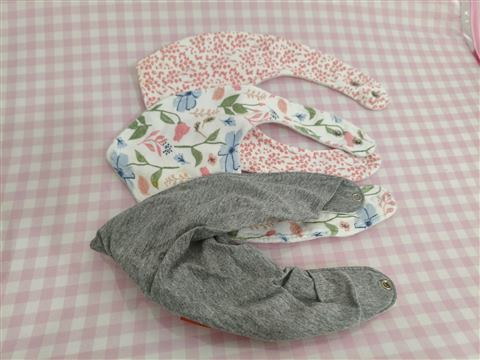
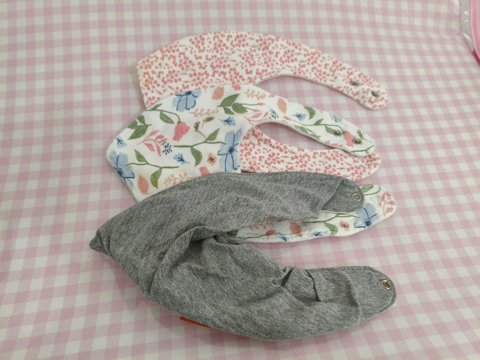
Página pública do catálogo (GitHub Pages): só leitura, sem perfil nem etiquetas
Claude-Session: https://claude.ai/code/session_017FMxTkv8VyW1G8JCJoGcg6

diff --git a/catalogo/index.html b/catalogo/index.html
@@ -1,0 +1,82 @@
+<!doctype html>
+<html lang="pt-BR">
+<head>
+<meta charset="utf-8">
+<meta name="viewport" content="width=device-width,initial-scale=1">
+<title>Guarda-roupa da Liv</title>
+<style>
+:root{--bg:#fbf7f5;--card:#fff;--ink:#3b2f33;--muted:#8a7a80;--line:#eadfe3;--accent:#b5545c}
+@media (prefers-color-scheme:dark){:root:not([data-theme="light"]){--bg:#201a1c;--card:#2b2326;--ink:#f3e9ec;--muted:#b8a6ad;--line:#43363b;--accent:#e08a92}}
+:root[data-theme="dark"]{--bg:#201a1c;--card:#2b2326;--ink:#f3e9ec;--muted:#b8a6ad;--line:#43363b;--accent:#e08a92}
+*{box-sizing:border-box}
+body{margin:0;background:var(--bg);color:var(--ink);font:15px/1.4 system-ui,sans-serif}
+header{padding:20px 16px 8px;max-width:1200px;margin:auto}
+h1{font-size:22px;margin:0 0 4px}
+.sub{color:var(--muted);margin:0 0 14px}
+.filters{display:grid;grid-template-columns:repeat(auto-fit,minmax(150px,1fr));gap:8px;margin-bottom:10px}
+select,input{width:100%;padding:9px 10px;border:1px solid var(--line);border-radius:10px;background:var(--card);color:var(--ink);font:inherit}
+.count{color:var(--muted);font-size:13px;margin:6px 0 12px}
+main{max-width:1200px;margin:auto;padding:0 16px 40px}
+.grid{display:grid;grid-template-columns:repeat(2,1fr);gap:10px}
+@media (min-width:700px){.grid{grid-template-columns:repeat(4,1fr)}}
+@media (min-width:1000px){.grid{grid-template-columns:repeat(5,1fr)}}
+.card{background:var(--card);border:1px solid var(--line);border-radius:12px;overflow:hidden;min-width:0}
+.frame{position:relative;aspect-ratio:1;background:#f3eef0}
+.frame img{position:absolute;inset:0;width:100%;height:100%;object-fit:contain}
+.nome{font-weight:600;padding:8px 10px 2px;font-size:14px}
+.info{padding:0 10px 10px;color:var(--muted);font-size:12.5px}
+.tag{display:inline-block;background:var(--line);border-radius:6px;padding:1px 6px;margin:2px 2px 0 0;color:var(--ink)}
+.vazio{padding:40px;text-align:center;color:var(--muted)}
+button{padding:9px 14px;border-radius:10px;border:1px solid var(--line);background:var(--card);color:var(--ink);font:inherit;cursor:pointer}
+</style>
+</head>
+<body>
+<header>
+  <h1>Guarda-roupa da Liv</h1>
+  <p class="sub">Peças que estão no armário. Toque nos filtros para encontrar o que precisa.</p>
+  <div class="filters">
+    <select id="fCat" aria-label="Categoria"><option value="">Todas as categorias</option></select>
+    <select id="fTam" aria-label="Tamanho"><option value="">Todos os tamanhos</option></select>
+    <select id="fEst" aria-label="Estação"><option value="">Todas as estações</option><option value="calor">Calor</option><option value="meia">Meia estação</option><option value="frio">Frio</option></select>
+    <select id="fMar" aria-label="Marca"><option value="">Todas as marcas</option></select>
+    <input id="fBusca" type="search" placeholder="Buscar peça…" aria-label="Buscar peça">
+  </div>
+  <div class="count" id="count"></div>
+</header>
+<main>
+  <div class="grid" id="grid"></div>
+  <div class="vazio" id="vazio" hidden>Nenhuma peça com esses filtros.</div>
+</main>
+<script>
+const ESTACAO={calor:'Calor',meia:'Meia estação',frio:'Frio'};
+const SERVE={sim:'Serve',grande:'Ficou grande',pequena:'Ficou pequena'};
+let pecas=[];
+const $=id=>document.getElementById(id);
+const opts=(sel,valores)=>{valores.sort((a,b)=>a.localeCompare(b,'pt-BR'));valores.forEach(v=>{const o=document.createElement('option');o.value=v;o.textContent=v;sel.appendChild(o)})};
+const uniq=f=>[...new Set(pecas.map(f).filter(Boolean))];
+function filtrar(){
+  const cat=$('fCat').value,tam=$('fTam').value,est=$('fEst').value,mar=$('fMar').value,q=$('fBusca').value.trim().toLocaleLowerCase('pt-BR');
+  const lista=pecas.filter(p=>(!cat||p.categoria===cat)&&(!tam||p.tamanho===tam)&&(!est||p.estacao===est)&&(!mar||p.marca===mar)&&(!q||[p.nome,p.categoria,p.marca,p.cor].join(' ').toLocaleLowerCase('pt-BR').includes(q)));
+  $('grid').innerHTML=lista.map(card).join('');
+  $('count').textContent=lista.length+(lista.length===1?' peça':' peças');
+  $('vazio').hidden=lista.length>0;
+}
+const esc=s=>String(s||'').replace(/[&<>"']/g,c=>({'&':'&amp;','<':'&lt;','>':'&gt;','"':'&quot;',"'":'&#39;'}[c]));
+function card(p){
+  const rot=((p.rotacao||0)%360+360)%360;
+  const img=p.foto_origem?`<img loading="lazy" src="../fotos/mini/${esc(p.foto_origem)}" alt="${esc(p.nome)}" style="transform:rotate(${rot}deg)">`:'';
+  const tags=[p.tamanho&&`Tamanho ${p.tamanho}`,p.marca,ESTACAO[p.estacao],SERVE[p.serve],p.conservacao&&`Estado: ${p.conservacao}`].filter(Boolean).map(t=>`<span class="tag">${esc(t)}</span>`).join('');
+  return `<div class="card"><div class="frame">${img}</div><div class="nome">${esc(p.nome)}</div><div class="info">${esc(p.categoria)}<br>${tags}</div></div>`;
+}
+fetch('../dados/catalogo.json').then(r=>r.json()).then(j=>{
+  pecas=j.pecas.filter(p=>p.situacao==='ativa');
+  opts($('fCat'),uniq(p=>p.categoria));
+  opts($('fTam'),uniq(p=>p.tamanho));
+  opts($('fMar'),uniq(p=>p.marca));
+  ['fCat','fTam','fEst','fMar'].forEach(id=>$(id).addEventListener('change',filtrar));
+  $('fBusca').addEventListener('input',filtrar);
+  filtrar();
+}).catch(()=>{$('count').textContent='Não foi possível carregar as peças agora.'});
+</script>
+</body>
+</html>
